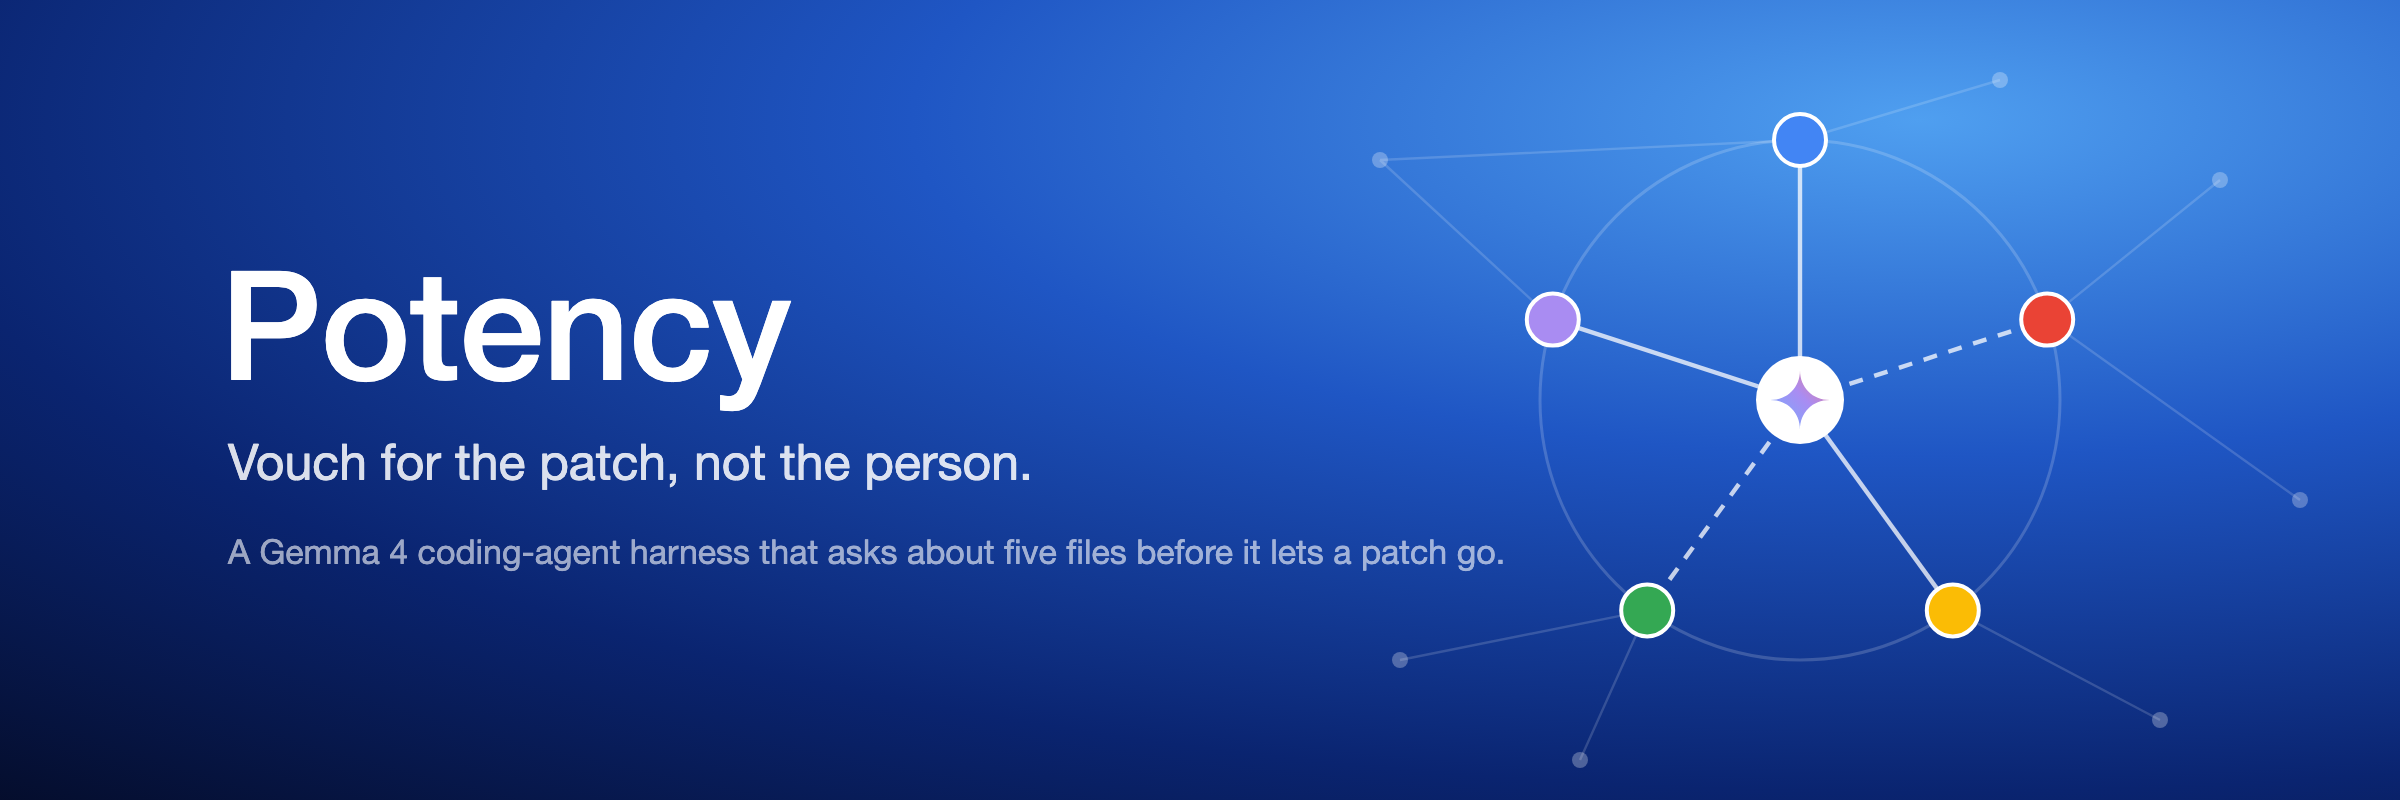
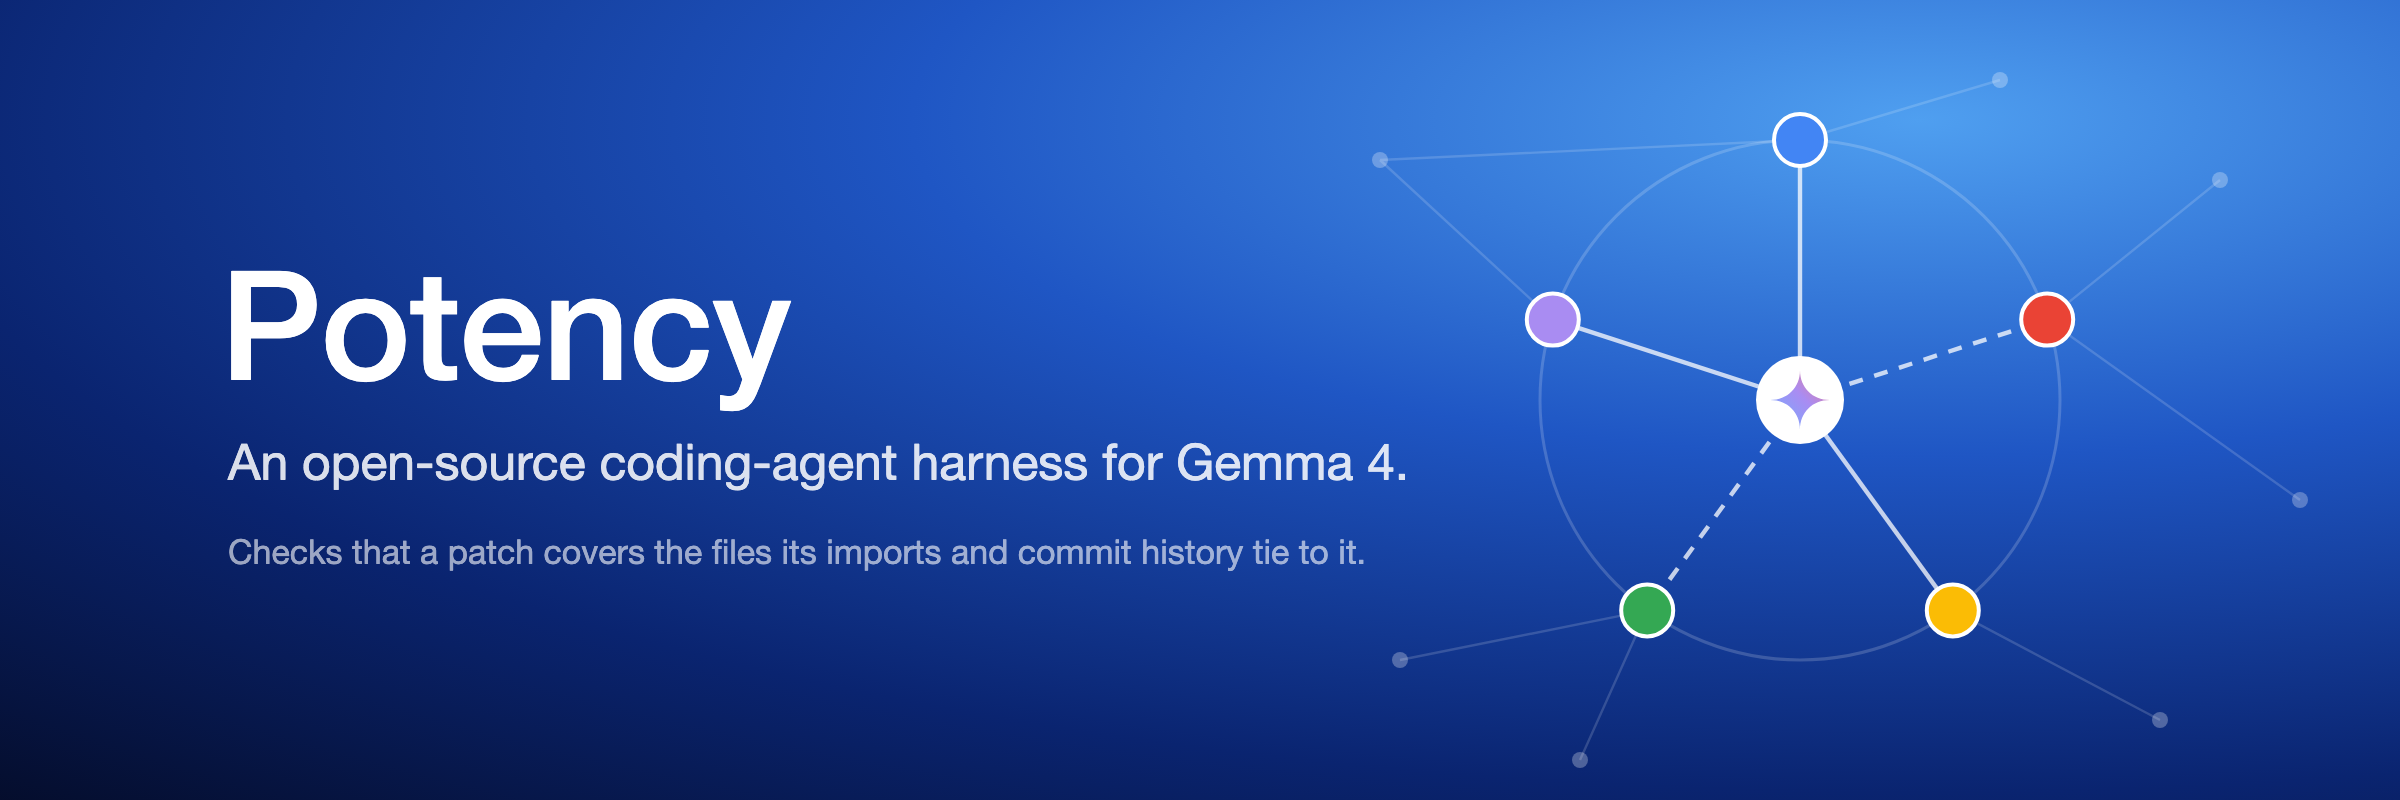
replaced tagline with plain description

Changed region(s): [[0.0938, 0.6562, 0.625, 0.7188], [0.0938, 0.5625, 0.5938, 0.625]]

diff --git a/README.md b/README.md
@@ -1,4 +1,4 @@
-<p align="center"><img src="assets/banner.png" alt="Potency: vouch for the patch, not the person" width="100%"></p>
+<p align="center"><img src="assets/banner.png" alt="Potency: an open-source coding-agent harness for Gemma 4" width="100%"></p>
 
 <p align="center">
   <a href="paper/potency.pdf">Paper</a>
@@ -160,7 +160,7 @@ uv run --with pytest python -m pytest -q tests
 
 ```bibtex
 @misc{potency2026,
-  title  = {Potency: Vouch for the Patch, Not the Person},
+  title  = {Potency: An Open-Source Gemma 4 Harness That Checks Whether a Patch Is Complete},
   author = {{The Potency team}},
   year   = {2026},
   note   = {Kaggle Gemma 4 Developer Agent, paper track},

diff --git a/paper/potency.md b/paper/potency.md
@@ -1,6 +1,6 @@
-# Vouch for the Patch, Not the Person
+# Potency: An Open-Source Gemma 4 Harness That Checks Whether a Patch Is Complete
 
-*Potency: a Gemma 4 harness that ranks the files tied to an edit by a joined import and commit-history graph, and refuses submission until each of the top five is changed or explained to the maintainer*
+*It ranks the files tied to an edit by a joined import and commit-history graph, and refuses submission until each of the top five is changed or explained to the maintainer*
 
 ## Abstract
 
